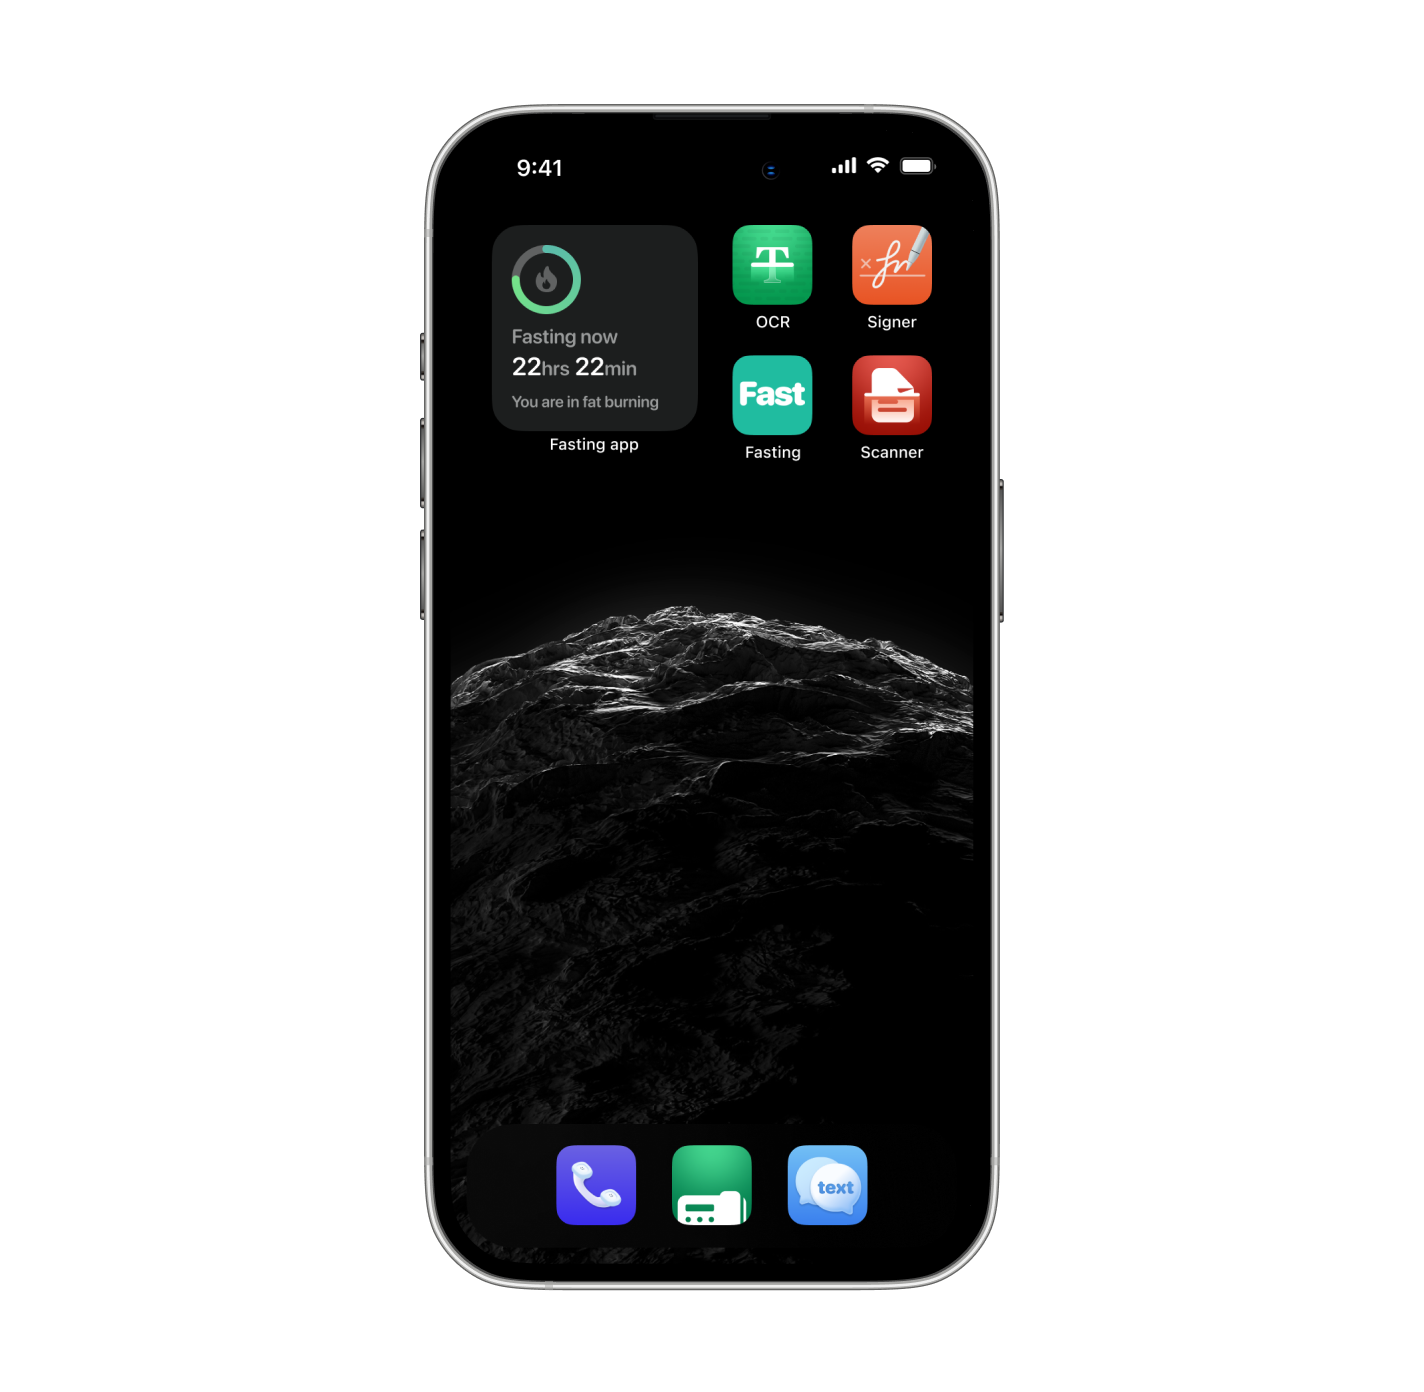
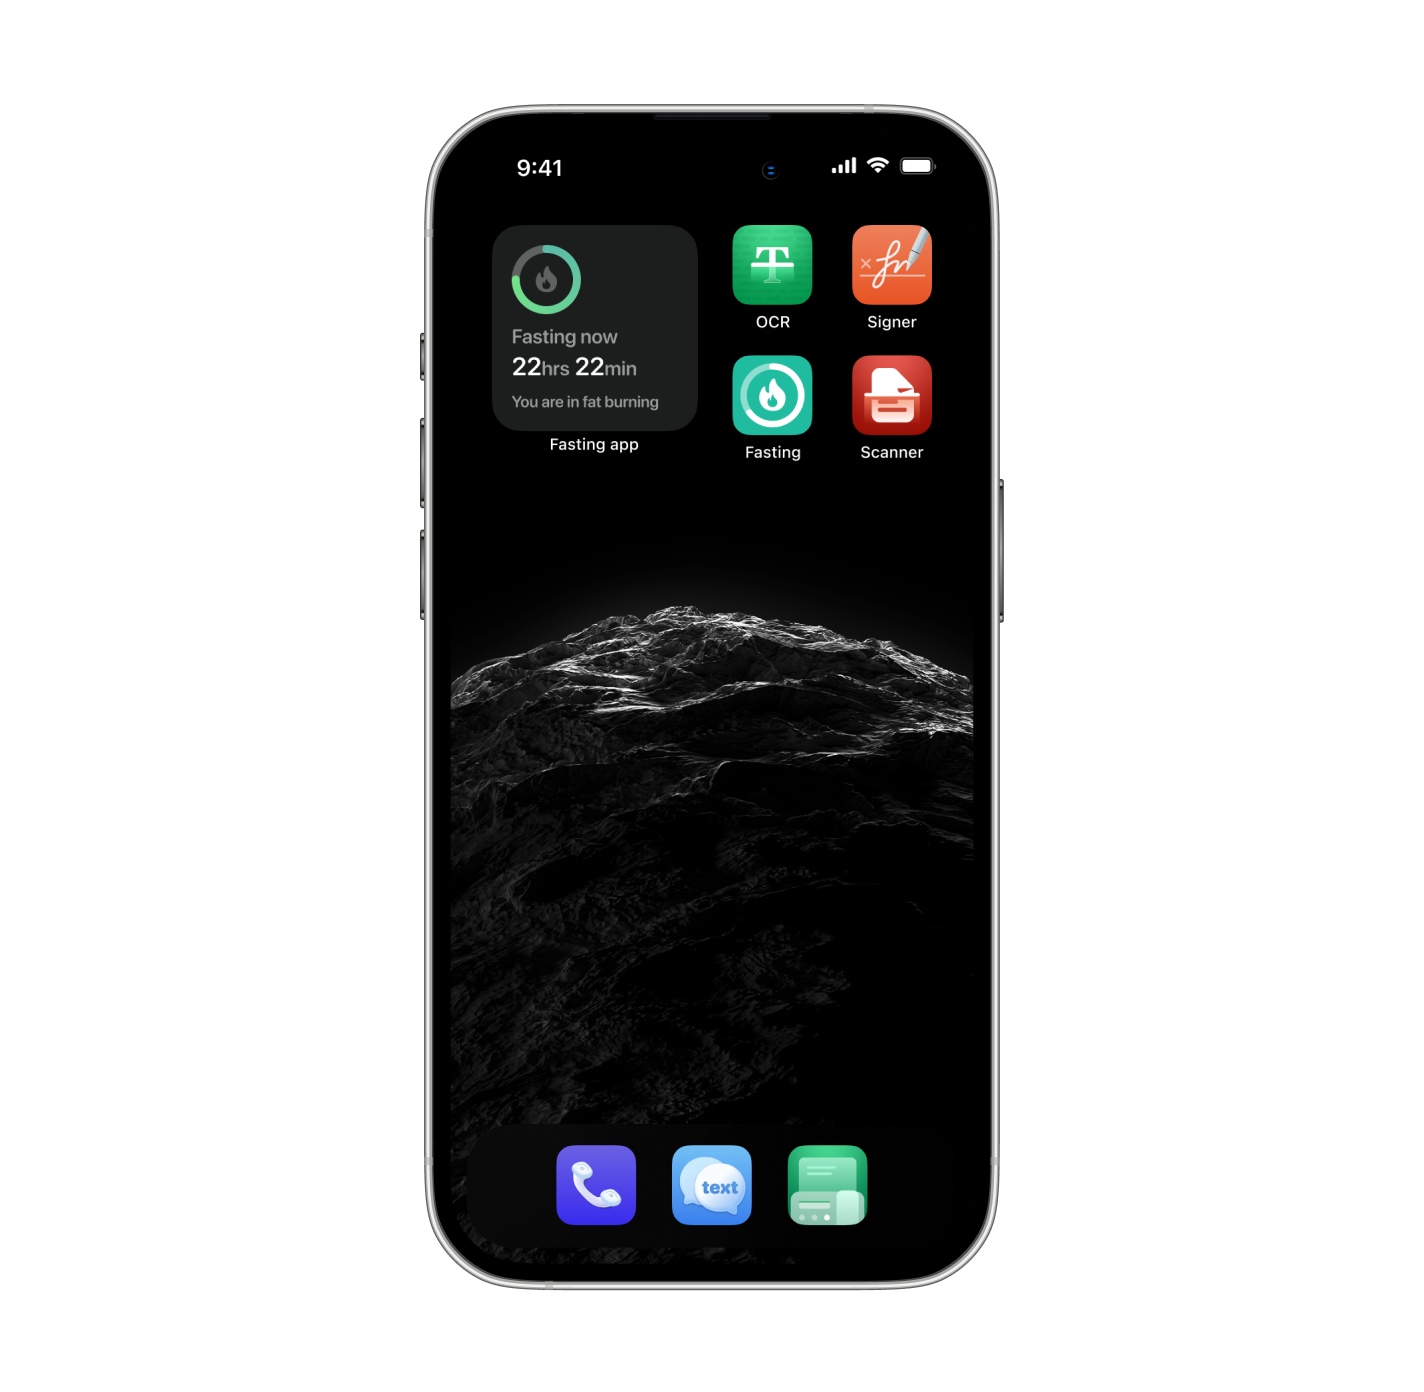
final touches

Changed region(s): [[0.4635, 0.8032, 0.618, 0.8958], [0.5253, 0.2471, 0.5871, 0.3089]]

diff --git a/src/pages/cuddlynest-web-platform.js b/src/pages/cuddlynest-web-platform.js
@@ -76,9 +76,9 @@ function CuddlynestWeb() {
                   the future of travel
                 </span>
               </h1>
-              <p>Online travel accommodation startup with a vision to make people's booking experience easy and effortless to focus on their travel (and not care about the accommodation).</p>
+              <p>Online travel accommodation startup with a vision to make people's booking experience easy and effortless to let them focus on their travel.</p>
               <div className={clsx(comment, "deemphasized")}>
-                Due to COVID-19 and various other reasons the product has never launched as intended
+                * Due to COVID-19 and various other reasons the product has never launched as intended.
               </div>
             </div>
           </section>
@@ -90,14 +90,14 @@ function CuddlynestWeb() {
                 </h2>
                 <div className={paragraph}>
                   <p>
-                    The team has been building the product since 2017. The product is not well defined, lacks intention and in the nutshell is a sum of various online travel agencies (from Airbnb to Booking.com) parts.</p>
-                  <p>That was a situation when I was hired in 2019 as a first designer on the team to help with a visual design. As a sole designer in the company I was granted a permission to shape the product however I want.</p>
-                  <p>Working closely with CEO I’ve started with outlining the problems the product has:
+                    By the time I join, the team has been building the product for two years since 2017. The product is not well defined, lacks intention and in the nutshell is a sum of different parts of various online travel agencies from Airbnb to Booking.com.</p>
+                  <p>That was the situation when I was hired in 2019 as a first designer on the team to help with a visual design. As a sole designer in the company I was also granted a permission to shape the product however I want.</p>
+                  <p>Working closely with CEO I start with outlining the problems the product has:
                   </p>
                   <ul className={unorderedList}>
                     <li>Lack of intention. What are the core values we live by, how do we want to help our users?</li>
                     <li>Lack of focus and uniqueness. Why would anyone picked us instead of competing online travel agencies?</li>
-                    <li>Lack of design language and system. No designer prior to me ever worked on a product.</li>
+                    <li>Lack of design language and system. No designer prior to me ever worked on a product, hence usability and visuals are quite underwhelming.</li>
                   </ul>
                 </div>
               </div>
@@ -127,9 +127,9 @@ function CuddlynestWeb() {
             <div className={clsx(internalContainer)}>
               <div className={highlights}>
                 <p className={highlight}>
-                  Trip types. <span className="deemphasized">I’ve interviewed my friends and colleagues, and the revelation was that every person had various types of trip, which change the requirements for accommodation. Today she meets with business partner in Singapore, next month goes to Crete with her family for 2 weeks vacation and in three months flies to Mexico with colleagues for company meet up.</span></p>
+                  Trip types. <span className="deemphasized">After interviewing my colleagues and friends, I've realized that every person has various types of trip, which changes the requirements for accommodation in every case. Today she meets with business partner in Singapore, next month goes to Crete with her family for 2 weeks vacation and in three months flies to Mexico with colleagues for company meet up.</span></p>
                 <p className={highlight}>
-                  Every such trip type is unique and requires different approach. <span className="deemphasized">Though each trip was unique, after several interviews and reflection on my experience I recognized common patterns. Thus I grouped trips into six distinct yet wide enough trip types to accommodate all the experiences.</span>
+                  Every such trip type is unique. <span className="deemphasized">After several interviews and reflection on my own experience I recognized common patterns, even though each trip was unique. I grouped trips into six distinct yet wide enough trip types to fit most of the experiences.</span>
                 </p>
                 </div>
               <div className={clsx(images)}>
@@ -171,7 +171,7 @@ function CuddlynestWeb() {
             <div className={clsx(internalContainer)}>
               <div className={clsx(leftAligned)}>
                 <p className={highlight}>
-                  Search may be as precise or as vague as traveller wants. <span className="deemphasized">Product understands and respects that people have different trip types ahead, they are on a different stage of their journey planning. At any moment traveller may add or remove details to their accommodation search.</span>
+                  Search may be as precise or as vague as traveller wants. <span className="deemphasized">Product understands and respects that people have different trip types ahead and at the time of visting a website they are on a different stage of their journey planning. At any moment traveller may add or remove details to their accommodation search.</span>
                 </p>
               </div>
               <div className={clsx(images)}>
@@ -198,7 +198,7 @@ function CuddlynestWeb() {
             <div className={clsx(internalContainer)}>
               <div className={clsx(rightAligned)}>
                 <p className={highlight}>
-                  Everything is in it’s right place. <span className="deemphasized">Whether traveller or property owner interface is designed to show the actions that person most likely want to use at the moment.</span>
+                  Everything is in it’s right place. <span className="deemphasized">For both property owners and guests interface is designed in a way to show the actions that person most likely want to use at the moment.</span>
                 </p>
               </div>
               <div className={clsx(images)}>
@@ -249,7 +249,7 @@ function CuddlynestWeb() {
             <div className={clsx(internalContainer)}>
               <div className={clsx(leftAligned)}>
                 <p className={highlight}>
-                  Fully responsive. <span className="deemphasized">Designed to be easy to use on whatever screen size person has—mobile, tablet, desktop.</span>
+                  Fully responsive. <span className="deemphasized">Designed to be easy to use on whatever screen size person has—mobile, tablet or desktop.</span>
                 </p>
               </div>
               <div className={clsx(images)}>
@@ -297,7 +297,7 @@ function CuddlynestWeb() {
                     I wanted the product to feel approachable, down-to-earth, imputing travel, exploration and joy. I've tried to achieve that via typography, colors, imagery and copy (with the help of copywriters of course).
                   </p>
                   <p className={clsx(comment, "deemphasized")}>
-                    I’m not a brand designer, but I had to be the one on this project being the only designer on the team
+                    * I’m not a brand designer, but being the only designer on the team, I had to be one here.
                   </p>
                 </div>
               </div>
@@ -332,7 +332,7 @@ function CuddlynestWeb() {
             <div className={clsx(internalContainer)}>
               <div className={clsx(leftAligned)}>
                 <p className={highlight}>
-                  Typography. <span className="deemphasized">I needed something approachable, friendly and modern. Besides selected type should work in both big and small sizes, in interfaces and branding. I've picked Fira Sans — versatile humanist open-source typeface created by Erik Spiekermann. The typeface looks more humane than widely used grotesques, it is free, well designed and supports many languages. Typeface works in display, text and micro sizes (with slight letter spacing adjustments).</span>
+                  Typography. <span className="deemphasized">I needed something approachable, friendly and modern. Besides selected type should work in both big and small sizes, in interfaces and branding. I've picked Fira Sans — versatile humanist open-source typeface created by Erik Spiekermann. The typeface looks more humane than widely used grotesques or geometric sans-serifs. It is free, well designed and supports many languages. Typeface works in display, text and micro sizes (with minor letter spacing adjustments).</span>
                 </p>
               </div>
               <div className={clsx(images)}>

diff --git a/src/pages/about.js b/src/pages/about.js
@@ -3,6 +3,7 @@ import Layout from "../components/layout/layout"
 import Header from "../components/sections/header"
 import Footer from "../components/sections/footer"
 import HeartIcon from "../svg/heart-icon.svg"
+import { Link } from "gatsby"
 import clsx from "clsx"
 import { StaticImage } from "gatsby-plugin-image"
 import {
@@ -27,6 +28,7 @@ import {
   websiteDescription,
   loveText,
   heartIcon,
+  webLink,
 } from "./styles/about.module.css"
 
 function AboutPage() {
@@ -48,16 +50,16 @@ function AboutPage() {
               <h2 className={clsx(h2Header, "allCaps deemphasized")}>My path</h2>
                 <div className={pathText}>
                   <p>
-                    My path to design is unusual. I’ve spent first 10 years of my professional life as a finance and business consultant. Studying business theories and observing how various companies work I got a strong sense of obsession with
+                    My path to design is unusual. I’ve spent first 10 years of my professional life as a finance and business consultant. Studying business theories and observing how various companies work I got a sense of what makes businesses tick and how they serve their customers.
                   </p>
                   <p>
-                    I’ve always been obsessed with digital world—from school when I started to use various computer programs to play with 3D, web-design and programming.
+                    I’ve always been obsessed with digital world—from school when I started to use various computer programs to play with 3D, web-design and programming, to later in life spending hours picking the best designed software and apps.
                   </p>
                   <p>
-                    Finally in 2018 I decided to try helping companies not with their numbers and advices, but with what I loved the most—digital products. I quit my job and with my wife and daughter went to South-East Asia for six months. There I started to take freelance design projects and found my first full-time product design job.
+                    Finally in 2018 I decided to try helping companies not with their numbers and consulting on how to thrive, but with what I obsessed about for so much time—digital products. I quit my job and with my wife and daughter went to South-East Asia for six months to recharge and try to put my foot into the door of the product design world. There I started to take freelance design projects and found my first full-time product design job.
                   </p>
                   <p>
-                    With the product design being my core activity and passion, I tinker with iOS native development, 3D design, front-end development and graphic design.
+                    With the product design being my core competence and passion, I tinker with iOS native development, front-end development, graphic design and 3D.
                   </p>
                   <p className={clsx(emphasized, loveText)}>
                     I love what I do
@@ -77,7 +79,7 @@ function AboutPage() {
                     2021–now
                   </div>
                   <div className={description}>
-                    Help building tiny utility apps for mobile. iPhone, iPad, Android phones and tablets.
+                    Design simple utility apps for mobile—iPhone, iPad, Android phones and tablets.
                   </div>
                 </div>
                 <div className={workPlace}>
@@ -89,7 +91,7 @@ function AboutPage() {
                     2019–2021
                   </div>
                   <div className={description}>
-                    Building the platform for the future accommodation booking. Travel is for everyone.
+                    Designing and shaping the platform for the future of the accommodation booking.
                   </div>
                 </div>
                 <div className={workPlace}>
@@ -109,15 +111,28 @@ function AboutPage() {
             <section className={website}>
               <h2 className={clsx(h2Header, "allCaps deemphasized")}>This website</h2>
               <div className={websiteDescription}>
-                <p>This website is built with HTML, CSS and React on top of gatsby.js.</p>
-                <p>
-                  Typeface used is Antarctica by newglyph.
+                <p>This website is built with HTML, CSS and React on top of&nbsp;
+                  <Link className={webLink} to="https://www.gatsbyjs.com/">
+                    Gatsby
+                  </Link>
+                  .
                 </p>
                 <p>
-                  Hosted at linode.
+                  Typeface used is Antarctica by&nbsp;
+                  <Link className={webLink} to="https://newglyph.com/">
+                    newglyph
+                  </Link>
+                  .
                 </p>
                 <p>
-                  Designed and built by me (:
+                  Hosted at&nbsp;
+                  <Link className={webLink} to="https://www.linode.com/">
+                    linode
+                  </Link>
+                  .
+                </p>
+                <p>
+                  Designed and built <span className="deemphasized badStuff">with a bunch of spaghetti code </span>by me (:
                 </p>
               </div>
             </section>

diff --git a/src/pages/index.js b/src/pages/index.js
@@ -28,6 +28,7 @@ import {
   gridCell,
   cursorImage,
   headerWrapper,
+  footerContent,
 } from "./styles/index.module.css"
 
 function IndexPage() {
@@ -290,9 +291,11 @@ function IndexPage() {
               </Link>
               <Link to="/sentio" className={projectInfo}>
                 <h3 className={mediumHeader}>Sentio<br /><span className="deemphasized">utility mobile apps</span></h3>
-                <p className={projectDescription}>Various utility mobile apps that help solving tiny problems people have. Nothing fancy, just simple apps.</p>
-                <p className={clsx("deemphasized", projectRole)}>Product UI/UX
-                  </p>
+                <p className={projectDescription}>Assorted simple utility mobile apps.</p>
+                <p className={clsx("deemphasized", projectRole)}>
+                  Product UI/UX<br />
+                  Iconography
+                </p>
                 <p className={clsx("deemphasized", period)}>2021–now</p>
               </Link>
             </div>
@@ -316,7 +319,7 @@ function IndexPage() {
               </Link>
               <Link to="/cuddlynest-mobile" className={projectInfo}>
                 <h3 className={mediumHeader}>Cuddlynest<br /><span className="deemphasized">native mobile experience</span></h3>
-                <p className={projectDescription}>Cross-platform mobile application for cuddlynest</p>
+                <p className={projectDescription}>Cross-platform mobile application for cuddlynest service</p>
                 <p className={clsx("deemphasized", projectRole)}>Product UI/UX</p>
                 <p className={clsx("deemphasized", period)}>2021</p>
               </Link>
@@ -324,7 +327,9 @@ function IndexPage() {
 
           </div>
         </div>
-        <Footer />
+        <div className={footerContent}>
+          <Footer />
+        </div>
       </div>
     </Layout>
   )

diff --git a/src/pages/sentio.js b/src/pages/sentio.js
@@ -43,13 +43,20 @@ function Sentio() {
           <Header />
         </div>
         <div className={aboveTheFoldImage}>
-          <StaticImage
-            alt="Image of the phone with 7 app icons and a widget"
-            src="../images/sentio/above-the-fold.png"
-            loading="eager"
-            objectFit="contain"
-            className={phoneImage}
-          />
+          { preferredTheme == "dark" ?
+            <StaticImage
+              alt="Image of the phone with 7 app icons and a widget"
+              src="../images/sentio/above-the-fold-dark.png"
+              objectFit="contain"
+              className={phoneImage}
+            /> :
+            <StaticImage
+              alt="Image of the phone with 7 app icons and a widget"
+              src="../images/sentio/above-the-fold.png"
+              objectFit="contain"
+              className={phoneImage}
+            />
+          }
         </div>
       </div>
       <div className={wrapper}>

diff --git a/src/components/sections/footer.js b/src/components/sections/footer.js
@@ -18,10 +18,10 @@ function Footer() {
           Smile, you look good today ;)
         </p> */}
         <p className={contact}>
-          <span className="deemphasized">If you have a project, want to collaborate or just say hi, write me to </span><Link to="mailto:verd@hey.com" className={email}>verd@hey.com</Link>
+          <span className="deemphasized">If you have an interesting project, want to collaborate or just say hi, write me at </span><Link to="mailto:verd@hey.com" className={email}>verd@hey.com</Link>
         </p>
         <div className={clsx(copyright, "deemphasized")}>
-          &copy; Dima Veremchuk, 2022
+          &copy; Dima Veremchuk, {new Date().getFullYear()}
         </div>
       </div>
     </div>

diff --git a/src/components/layout/layout.css b/src/components/layout/layout.css
@@ -123,6 +123,7 @@ time, mark, audio, video {
 	padding: 0;
 	border: 0;
 	font-size: 100%;
+  font-variation-settings: 'wght' 350;
 	font: inherit;
 	vertical-align: baseline;
         box-sizing: border-box;
@@ -172,6 +173,11 @@ a {
   letter-spacing: 0.05em;
   line-height: 17px;
   font-weight: 500;
+  font-variation-settings: 'wght' 500;
+}
+
+.badStuff:hover {
+  cursor: progress;
 }
 
 #svg-purple-cursor {

diff --git a/src/pages/styles/index.module.css b/src/pages/styles/index.module.css
@@ -107,6 +107,10 @@
   letter-spacing: var(--header-three-spacing);
 }
 
+.footerContent {
+  padding: 0 16px;
+}
+
 @media screen and (min-width: 600px) {
   .wrapper {
     max-width: 1440px;
@@ -182,6 +186,10 @@
 
   .projectDescription {
     grid-column: 1/1;
+  }
+
+  .footerContent {
+    padding: 0;
   }
 }
 

diff --git a/src/pages/styles/about.module.css b/src/pages/styles/about.module.css
@@ -74,6 +74,15 @@
   cursor: none;
 }
 
+.webLink {
+  border-bottom: 1px solid hsl(var(--grey-color));
+  transition: border .15s ease;
+}
+
+.webLink:hover {
+  border-bottom-color: hsl(var(--foreground-color));
+}
+
 @keyframes heart-pump {
   0% {
     transform: scale(1);
